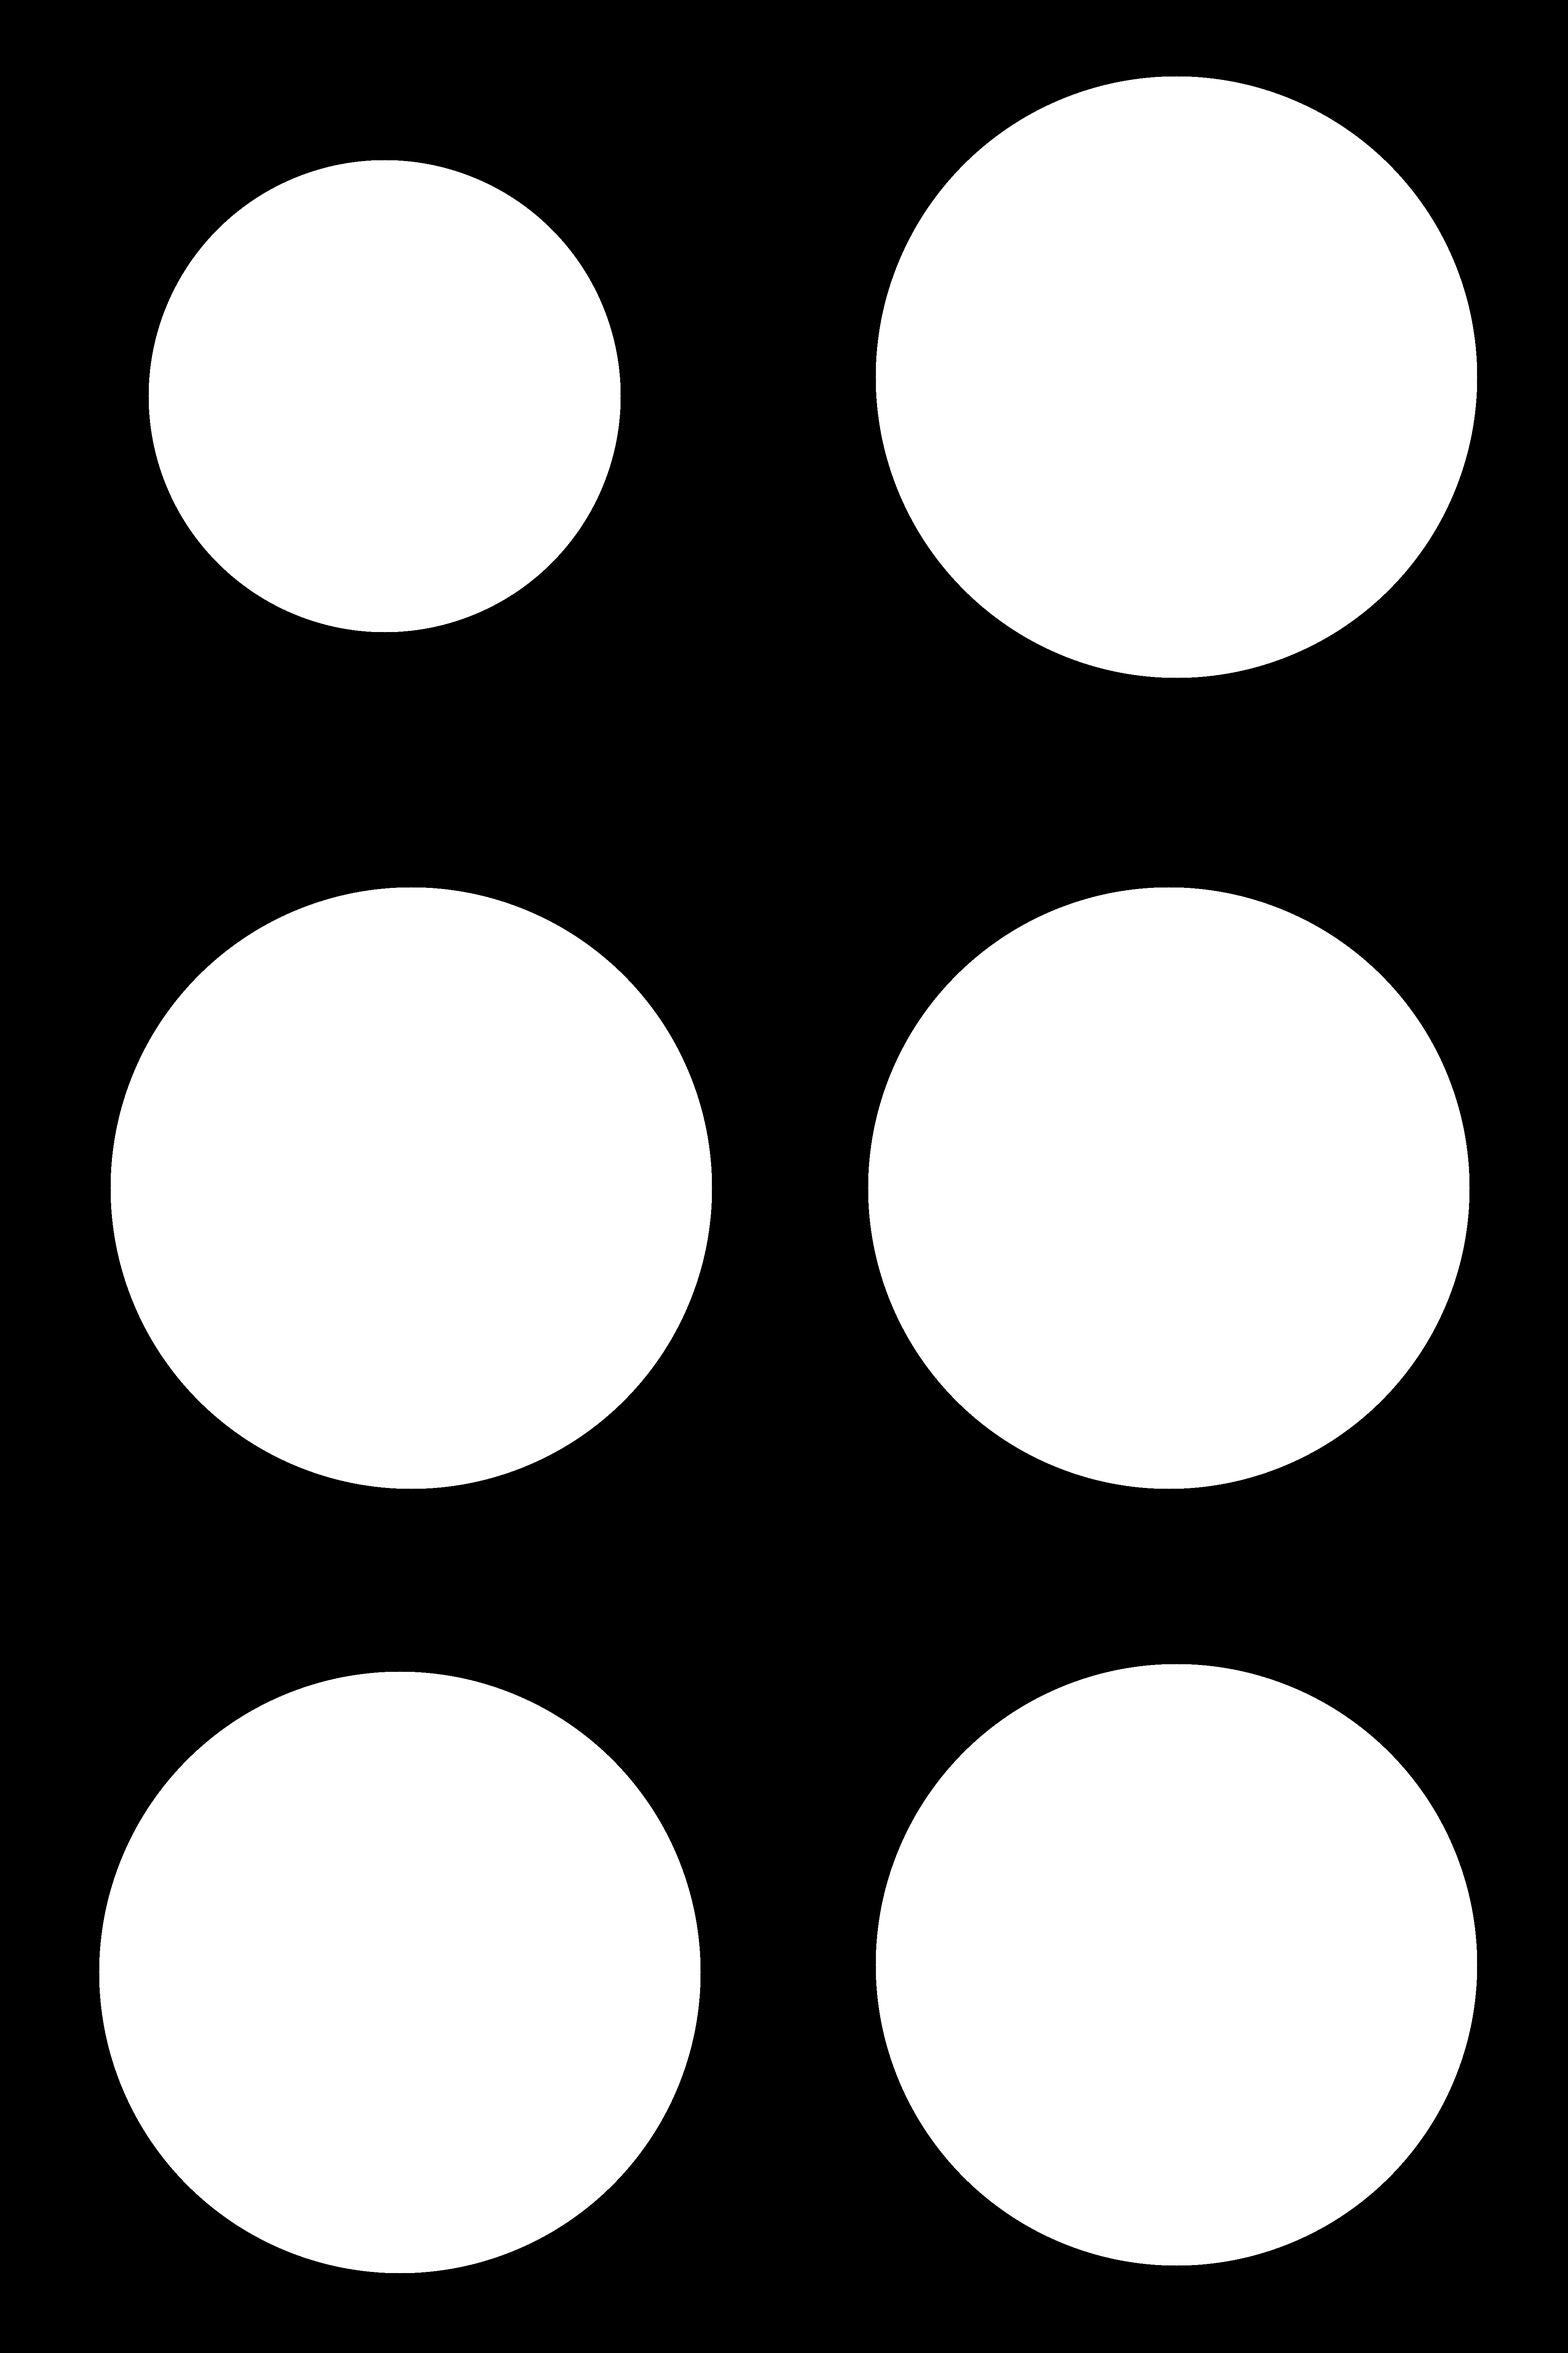
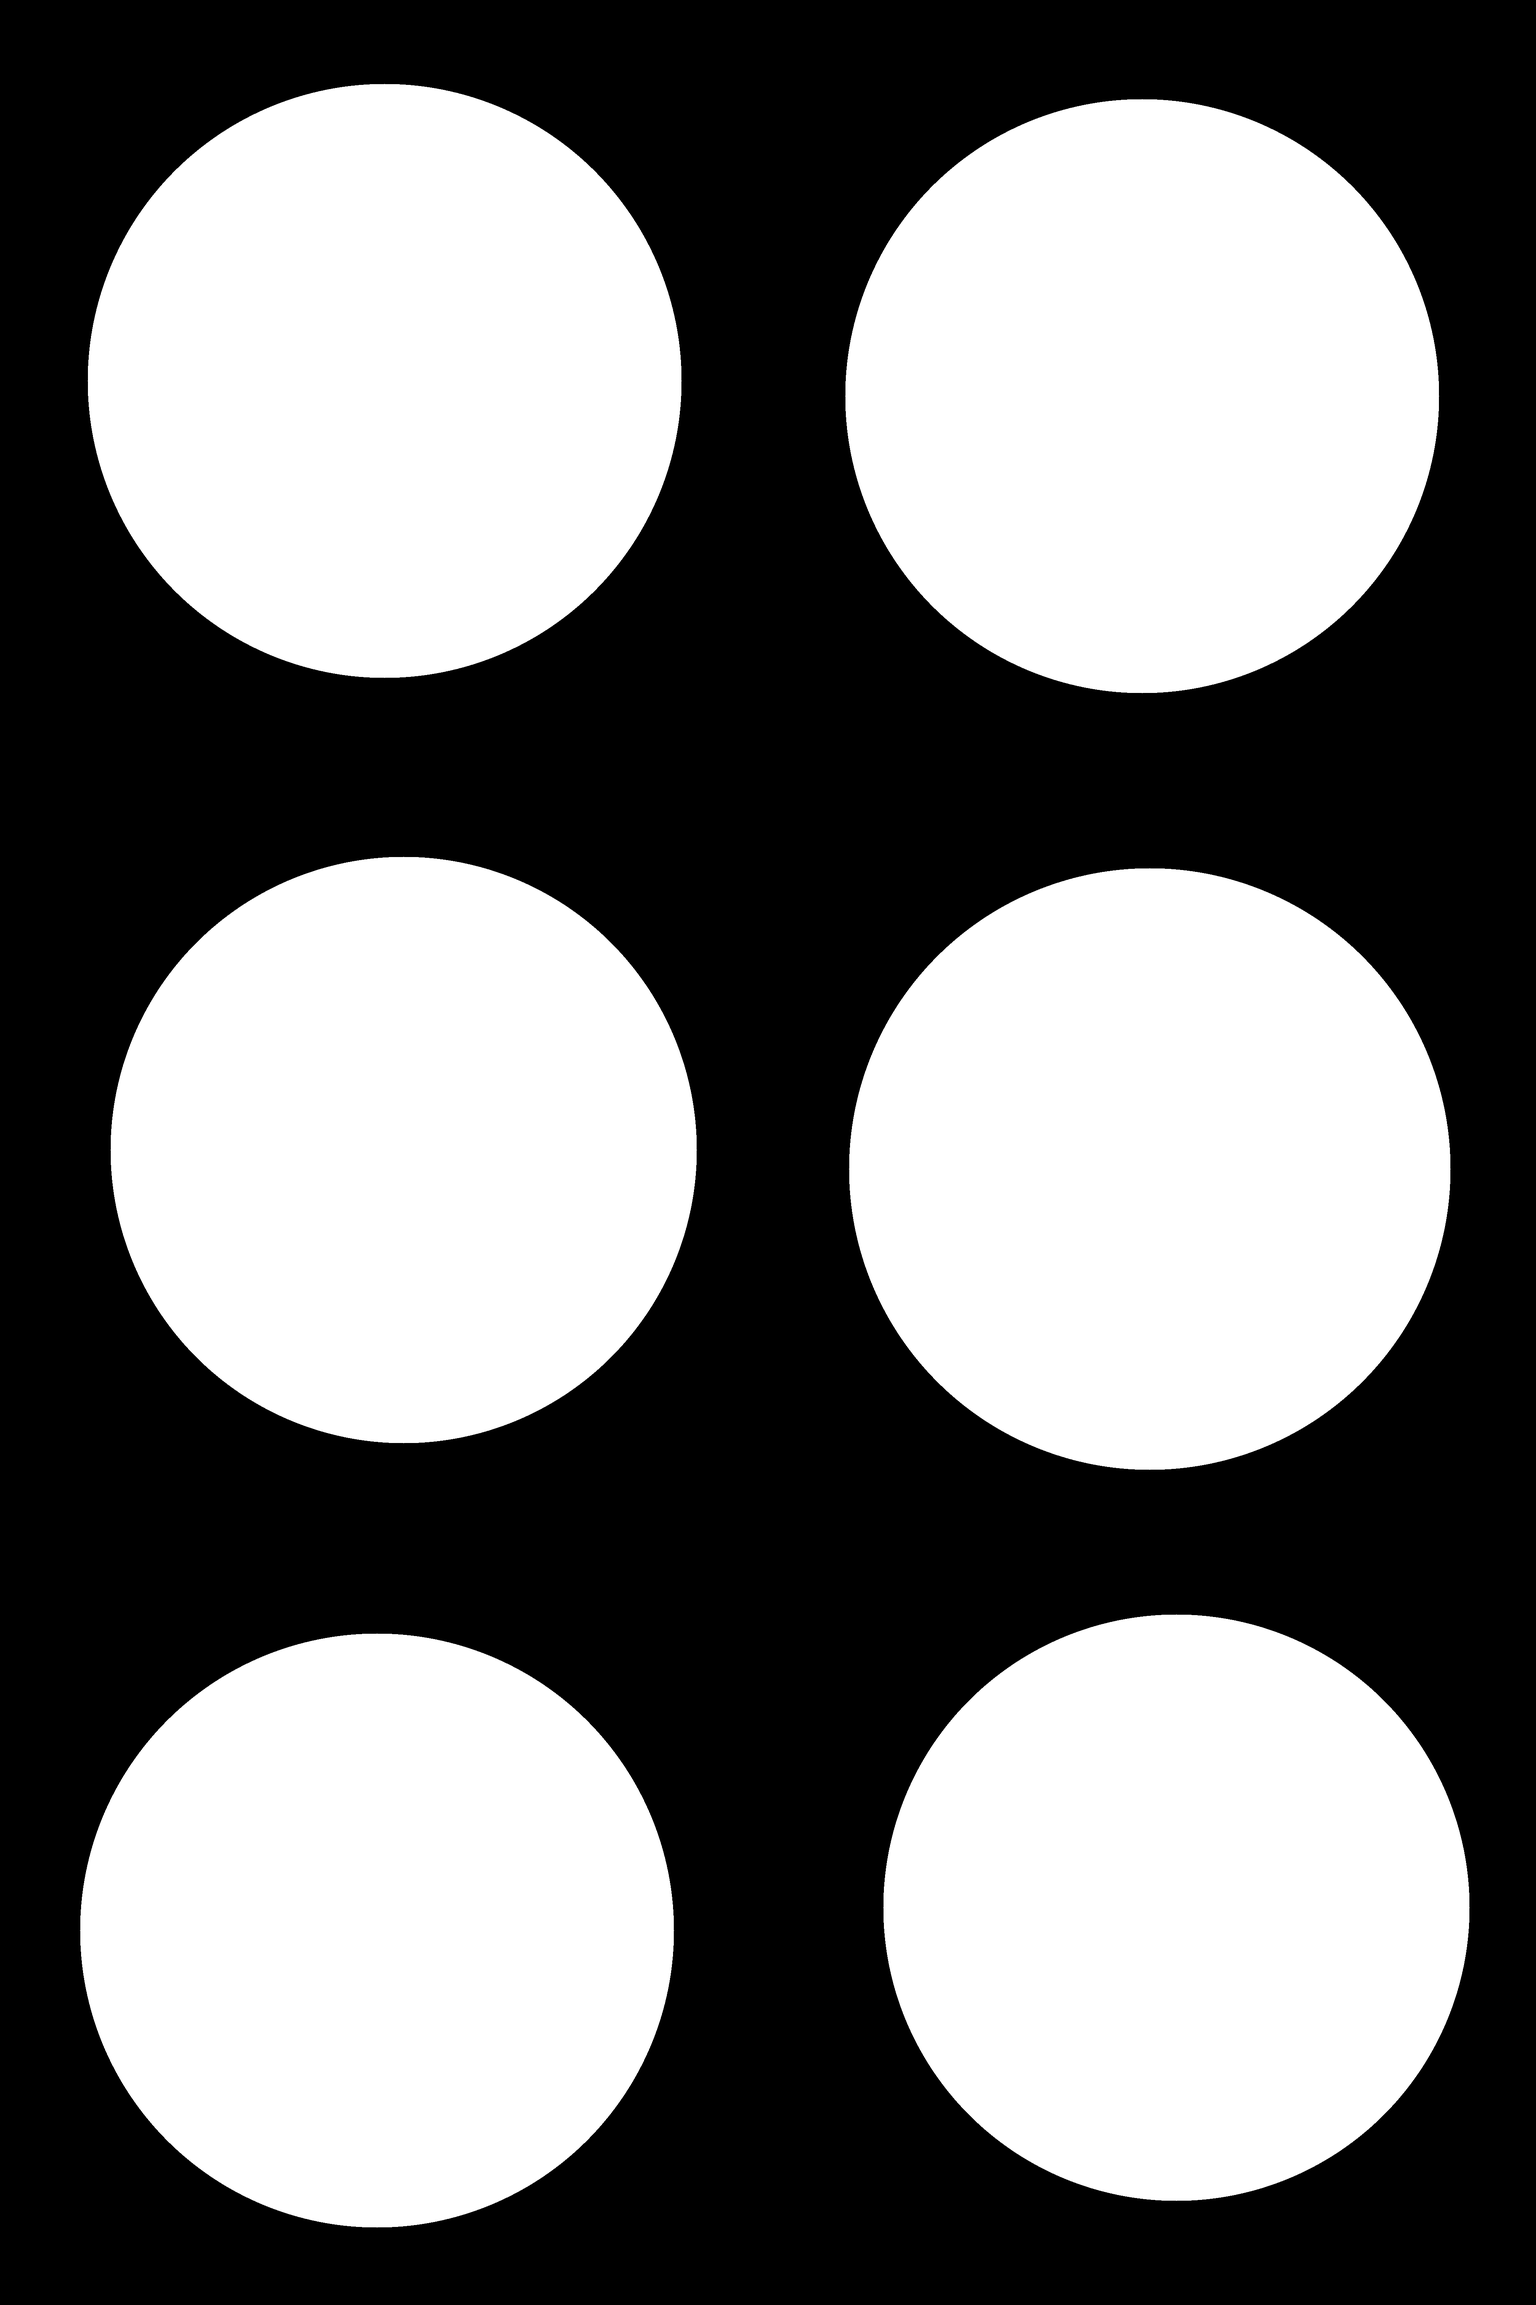
Added mask dataset for whole folder

diff --git a/maskDataset.py b/maskDataset.py
@@ -1,0 +1,93 @@
+
+from matplotlib import pyplot as plt
+import numpy as np
+import cv2 as cv2
+import numpy as np
+import matplotlib.pyplot as plt
+import os
+
+from skimage import data, color
+from skimage.transform import hough_circle, hough_circle_peaks
+
+folder_path = 'Data/IBT41495/'
+output_folder = 'Data/Output/'
+for filename in os.listdir(folder_path):
+    file_path = os.path.join(folder_path, filename)
+    
+    if filename.endswith(('.png', '.jpg', '.jpeg', '.gif', '.bmp', '.tiff')):
+        print("Processing file: " + filename)
+        img = cv2.imread(file_path)
+        ogh, ogw, _ = img.shape
+        ogimg = img.copy()
+        img = cv2.resize(img, (0, 0), fx = 0.1, fy = 0.1)
+        cimg = cv2.cvtColor(img,cv2.COLOR_BGR2GRAY)
+        output=img.copy()
+        low_threshold = 5
+        high_threshold = 100
+            # Read the image using OpenCV
+
+            # Apply Gaussian smoothing
+        blurred_image = cv2.GaussianBlur(cimg, (5, 5), 0)
+
+        # Compute gradients using Sobel operators
+        gradient_x = cv2.Sobel(blurred_image, cv2.CV_64F, 1, 0, ksize=3)
+        gradient_y = cv2.Sobel(blurred_image, cv2.CV_64F, 0, 1, ksize=3)
+
+        # Calculate gradient magnitude and direction
+        magnitude = np.sqrt(gradient_x**2 + gradient_y**2)
+        gradient_direction = np.arctan2(gradient_y, gradient_x) * (180 / np.pi)
+
+        # Non-maximum suppression
+        non_max_suppressed = cv2.Canny(blurred_image, low_threshold, high_threshold)
+
+        # Edge tracking by hysteresis
+        edge_map = cv2.Canny(blurred_image, low_threshold, high_threshold)
+
+        # Example usage
+        kernel = np.ones((3,3))
+            # do a morphologic close
+        edge_map = cv2.morphologyEx(edge_map,cv2.MORPH_CLOSE, kernel)
+
+
+        hough_radii = np.arange(75, 100)
+        hough_res = hough_circle(edge_map, hough_radii)
+
+        # Select the most prominent 3 circles
+        _, cx, cy, radii = hough_circle_peaks(hough_res, hough_radii, 50, 50, total_num_peaks=6)
+
+        h, w, _ = img.shape
+        mask = np.zeros((ogimg.shape), np.uint8)
+        for center_y, center_x, radius in zip(cy, cx, radii):
+            cv2.circle(mask, ((center_x*10), (center_y*10)), ((radius-20)*10), (255, 255, 255), -1)
+        cv2.imwrite("mask.png", mask)
+        mask2 = cv2.imread('mask.png',0)
+        # # Original Image
+        res = cv2.bitwise_and(ogimg,ogimg,mask = mask2)
+        cv2.imwrite("Data/Output/" + filename, res)
+
+
+# plt.subplot(1, 4, 1)
+# plt.imshow(cv2.cvtColor(output, cv2.COLOR_BGR2RGB))
+# plt.title('Original Image')
+# plt.axis('off')
+
+# # Display the images
+# plt.subplot(1, 4, 2)
+# plt.imshow(cv2.cvtColor(edge_map, cv2.COLOR_BGR2RGB))
+# plt.title('Edge')
+# plt.axis('off')
+
+# # Display the images
+# plt.subplot(1, 4, 3)
+# plt.imshow(cv2.cvtColor(mask2, cv2.COLOR_BGR2RGB))
+# plt.title('Mask')
+# plt.axis('off')
+
+# # Canny Edge-detected Image
+
+# plt.subplot(1, 4, 4)
+# plt.imshow(cv2.cvtColor(res, cv2.COLOR_BGR2RGB))
+# plt.title('Masked image')
+# plt.axis('off')
+# # Display the images
+# plt.show()

diff --git a/workingmask.py b/workingmask.py
@@ -4,12 +4,11 @@ import numpy as np
 import cv2 as cv2
 import numpy as np
 import matplotlib.pyplot as plt
+import os
 
 from skimage import data, color
 from skimage.transform import hough_circle, hough_circle_peaks
-from skimage.feature import canny
-from skimage.draw import circle_perimeter
-from skimage.util import img_as_ubyte
+
 
 
 img = cv2.imread('Data/IBT23253/273.jpeg')
@@ -18,6 +17,8 @@ ogimg = img.copy()
 img = cv2.resize(img, (0, 0), fx = 0.1, fy = 0.1)
 cimg = cv2.cvtColor(img,cv2.COLOR_BGR2GRAY)
 output=img.copy()
+low_threshold = 5
+high_threshold = 100
 def canny_edge_detector(low_threshold, high_threshold):
     # Read the image using OpenCV
 
@@ -42,8 +43,7 @@ def canny_edge_detector(low_threshold, high_threshold):
     return edge_map
 
 # Example usage
-low_threshold = 5
-high_threshold = 100
+
 edge_map = canny_edge_detector(low_threshold, high_threshold)
 kernel = np.ones((3,3))
     # do a morphologic close
@@ -68,28 +68,28 @@ mask2 = cv2.imread('mask.png',0)
 res = cv2.bitwise_and(ogimg,ogimg,mask = mask2)
 cv2.imwrite("testmasked.jpeg", res)
 
-plt.subplot(1, 4, 1)
-plt.imshow(cv2.cvtColor(output, cv2.COLOR_BGR2RGB))
-plt.title('Original Image')
-plt.axis('off')
+# plt.subplot(1, 4, 1)
+# plt.imshow(cv2.cvtColor(output, cv2.COLOR_BGR2RGB))
+# plt.title('Original Image')
+# plt.axis('off')
 
-# Display the images
-plt.subplot(1, 4, 2)
-plt.imshow(cv2.cvtColor(edge_map, cv2.COLOR_BGR2RGB))
-plt.title('Edge')
-plt.axis('off')
+# # Display the images
+# plt.subplot(1, 4, 2)
+# plt.imshow(cv2.cvtColor(edge_map, cv2.COLOR_BGR2RGB))
+# plt.title('Edge')
+# plt.axis('off')
 
-# Display the images
-plt.subplot(1, 4, 3)
-plt.imshow(cv2.cvtColor(mask2, cv2.COLOR_BGR2RGB))
-plt.title('Mask')
-plt.axis('off')
+# # Display the images
+# plt.subplot(1, 4, 3)
+# plt.imshow(cv2.cvtColor(mask2, cv2.COLOR_BGR2RGB))
+# plt.title('Mask')
+# plt.axis('off')
 
-# Canny Edge-detected Image
+# # Canny Edge-detected Image
 
-plt.subplot(1, 4, 4)
-plt.imshow(cv2.cvtColor(res, cv2.COLOR_BGR2RGB))
-plt.title('Masked image')
-plt.axis('off')
-# Display the images
-plt.show()
+# plt.subplot(1, 4, 4)
+# plt.imshow(cv2.cvtColor(res, cv2.COLOR_BGR2RGB))
+# plt.title('Masked image')
+# plt.axis('off')
+# # Display the images
+# plt.show()
